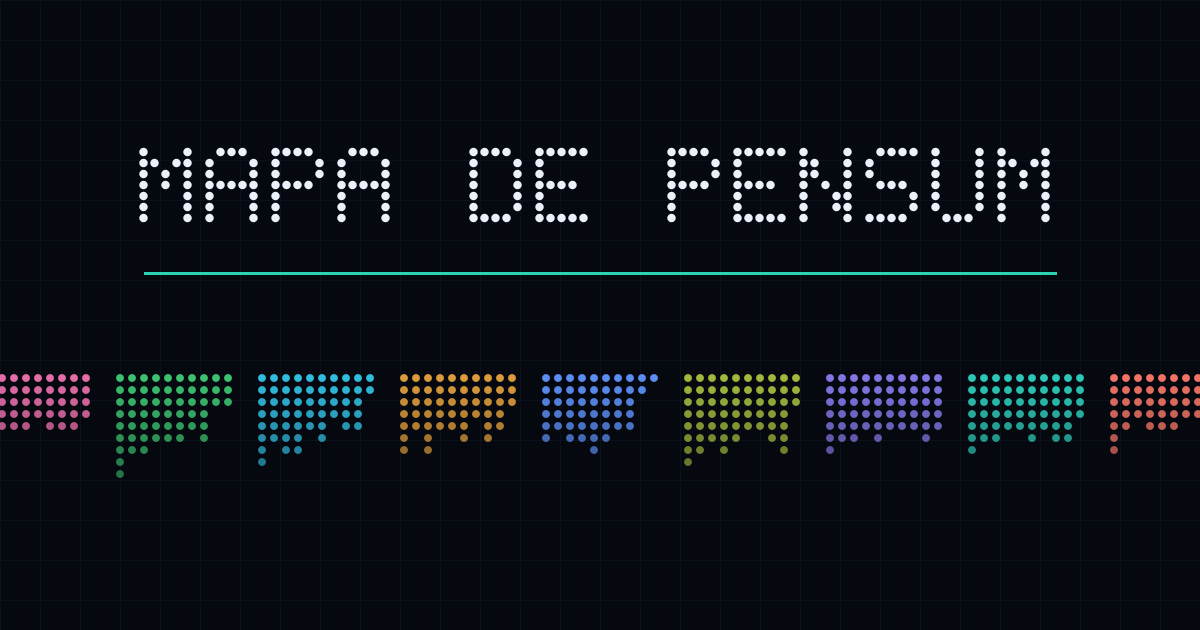
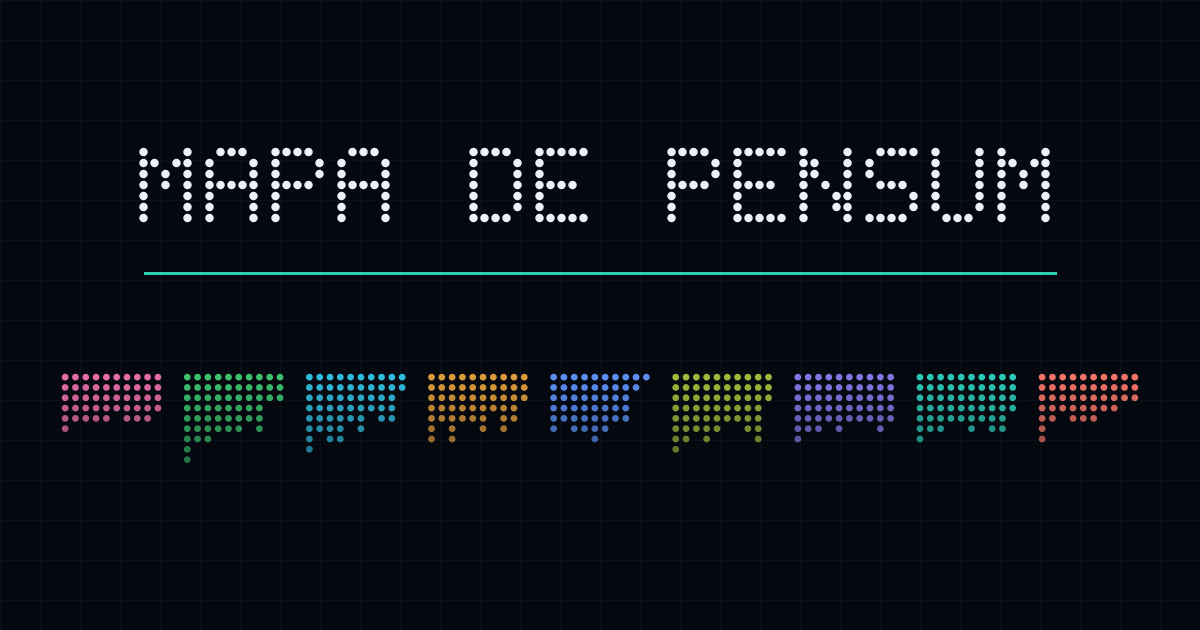
Quitar de la vista el parrafo introductorio del inicio
Ocupaba una banda entera que las tarjetas aprovechan mejor y no explicaba
lo suficiente para justificarla.

Antes de borrarlo se comprobo que trabajo de SEO hacia. El body del HTML
raiz esta VACIO -45 bytes- porque el prerenderizado escribe contenido para
las paginas de carrera, no para la portada: ese parrafo solo lo veian los
rastreadores que ejecutan JavaScript. La meta description dice lo mismo y
no depende de el.

Asi que no se borra, se esconde con sr-only: sigue siendo la primera
orientacion que oye quien entra con lector de pantalla, y quien ejecuta JS
lo sigue leyendo. Se gana el espacio sin perder nada.

De paso, un dato que la novena carrera dejo obsoleto: 'Ocho carreras'
seguia en la meta description, en el og:description, en el texto
alternativo de la miniatura y en App.jsx.

Y la miniatura de compartir se salia del lienzo con nueve siluetas: se
cortaban la primera y la ultima. El paso entre puntos ya no es fijo, se
calcula del numero de columnas, asi que seguira cuadrando cuando entre la
decima.

Changed region(s): [[0.0, 0.573, 1.0, 0.754]]

diff --git a/index.html b/index.html
@@ -11,7 +11,7 @@
     <title>Mapa de Pensum — UDO Núcleo de Monagas</title>
     <meta
       name="description"
-      content="Mapa interactivo de los pensums de la Universidad de Oriente, Núcleo de Monagas. Ocho carreras con sus materias, prelaciones y avance."
+      content="Mapa interactivo de los pensums de la Universidad de Oriente, Núcleo de Monagas. Nueve carreras con sus materias, prelaciones y avance."
     />
     <link rel="canonical" href="https://mapa-pensum.vercel.app/" />
     <!-- Vista previa al pegar el enlace en WhatsApp, Telegram, Discord o X.
@@ -24,7 +24,7 @@
     <meta property="og:title" content="Mapa de Pensum — UDO Núcleo de Monagas" />
     <meta
       property="og:description"
-      content="Tu carrera como un mapa: qué materia desbloquea cuál y cuánto te falta. Ocho carreras del Núcleo de Monagas."
+      content="Tu carrera como un mapa: qué materia desbloquea cuál y cuánto te falta. Nueve carreras del Núcleo de Monagas."
     />
     <meta property="og:image" content="https://mapa-pensum.vercel.app/og.png" />
     <meta property="og:image:type" content="image/png" />
@@ -32,7 +32,7 @@
     <meta property="og:image:height" content="630" />
     <meta
       property="og:image:alt"
-      content="Mapa de Pensum: las ocho carreras del Núcleo de Monagas, cada una con la silueta de su plan de estudios."
+      content="Mapa de Pensum: las nueve carreras del Núcleo de Monagas, cada una con la silueta de su plan de estudios."
     />
     <meta property="og:locale" content="es_VE" />
     <meta name="twitter:card" content="summary_large_image" />

diff --git a/scripts/og.js b/scripts/og.js
@@ -80,10 +80,21 @@ for (let x = (ANCHO - anchoTexto) / 2; x < (ANCHO + anchoTexto) / 2; x++) {
   for (let y = 272; y < 275; y++) punto(Math.round(x), y, ACENTO, 0.9)
 }
 
-// Siluetas reales de las ocho carreras
+// Siluetas reales de todas las carreras del indice
 const indice = JSON.parse(readFileSync('src/data/carreras/indice.json', 'utf8'))
-const PASO_PUNTO = 12
-const SEPARACION = 22
+
+// El paso se calcula, no se fija. Con ocho carreras cabian doce pixeles por
+// columna; al entrar la novena la fila se salio del lienzo y se cortaron la
+// primera y la ultima. Ahora se busca el paso mas grande que quepa, asi que
+// la imagen sigue saliendo bien cuando entre la decima.
+const MARGEN_LADO = 60
+const SEPARACION_RELATIVA = 1.85 // el hueco entre carreras, en pasos
+const columnasTotales = indice.reduce((s, c) => s + c.silueta.length, 0)
+const huecos = (indice.length - 1) * SEPARACION_RELATIVA
+const PASO_PUNTO = Math.min(12, (ANCHO - MARGEN_LADO * 2) / (columnasTotales + huecos))
+const SEPARACION = PASO_PUNTO * SEPARACION_RELATIVA
+const RADIO_PUNTO = PASO_PUNTO * 0.325
+
 const anchoCarrera = (c) => c.silueta.length * PASO_PUNTO
 const anchoTotal =
   indice.reduce((s, c) => s + anchoCarrera(c), 0) + (indice.length - 1) * SEPARACION
@@ -98,7 +109,7 @@ for (const carrera of indice) {
       circulo(
         x + columna * PASO_PUNTO + PASO_PUNTO / 2,
         yBase + fila * PASO_PUNTO + PASO_PUNTO / 2,
-        3.9,
+        RADIO_PUNTO,
         color,
         // Las de abajo se apagan: da profundidad y deja leer la columna
         0.95 - (fila / 9) * 0.45,

diff --git a/src/components/SelectorCarrera.jsx b/src/components/SelectorCarrera.jsx
@@ -7,7 +7,7 @@ import PieSelector from './PieSelector'
 import TarjetaCarrera from './TarjetaCarrera'
 
 /**
- * Portada y selector. Es la primera impresion del proyecto, asi que las ocho
+ * Portada y selector. Es la primera impresion del proyecto, asi que las nueve
  * carreras se ven a la vez sin scroll en escritorio.
  *
  * La carrera vista por ultima vez se marca con "Continuar" en vez de saltar
@@ -57,7 +57,13 @@ function SelectorCarrera({ alElegir }) {
           </button>
         </header>
 
-        <p className="mt-6 max-w-xl text-[13px] leading-relaxed text-tinta-suave sm:mt-8 xl:max-w-2xl xl:text-[15px]">
+        {/* Esta frase estaba a la vista y ocupaba una banda entera que las
+            tarjetas aprovechan mejor. No se borra, se esconde: sigue siendo
+            la primera orientacion que oye quien entra con lector de pantalla,
+            y la siguen leyendo los rastreadores que ejecutan JavaScript. Lo
+            que ven los que no lo ejecutan es la meta description, que dice lo
+            mismo y no depende de esto. */}
+        <p className="sr-only">
           Tu carrera como un mapa: qué materia desbloquea cuál, qué puedes inscribir ahora y
           cuánto te falta. Elige la tuya.
         </p>

diff --git a/src/App.jsx b/src/App.jsx
@@ -16,7 +16,7 @@ function ponerMeta(carrera) {
     ? `Mapa interactivo del pensum de ${carrera.nombre} en la UDO Núcleo de Monagas: ` +
       `${carrera.asignaturas} materias en ${carrera.semestres} semestres, con sus prelaciones.`
     : 'Mapa interactivo de los pensums de la Universidad de Oriente, Núcleo de Monagas. ' +
-      'Ocho carreras con sus materias, prelaciones y avance.'
+      'Nueve carreras con sus materias, prelaciones y avance.'
 
   document.querySelector('meta[name="description"]')?.setAttribute('content', descripcion)
   document

diff --git a/src/components/VistaCarrera.jsx b/src/components/VistaCarrera.jsx
@@ -17,7 +17,7 @@ const CLAVE_VISTA = 'mapa-pensum:vista'
 
 /**
  * El mapa de una carrera. Recibe el pensum ya normalizado y no sabe de donde
- * salio: es lo que permite que la misma vista sirva para las ocho.
+ * salio: es lo que permite que la misma vista sirva para las nueve.
  *
  * La clave de React debe ser el slug. Al cambiar de carrera se remonta entero
  * y el estado de vista (zoom, seleccion, paneles abiertos) arranca limpio, que

diff --git a/src/components/TarjetaCarrera.jsx b/src/components/TarjetaCarrera.jsx
@@ -18,7 +18,7 @@ const GIRO = 7
  * por dos palabras no se justificaba.
  *
  * tabular-nums mantiene las cifras en columna: sin eso, 49 y 10 ocupan anchos
- * distintos y las ocho tarjetas quedan desalineadas entre si.
+ * distintos y las tarjetas quedan desalineadas entre si.
  */
 function Cifra({ valor, etiqueta }) {
   return (

diff --git a/README.md b/README.md
@@ -1,12 +1,12 @@
 <div align="center">
 
-<img src="public/og.png" alt="Mapa de Pensum — las ocho carreras del Núcleo de Monagas" width="820">
+<img src="public/og.png" alt="Mapa de Pensum — las nueve carreras del Núcleo de Monagas" width="820">
 
 # Mapa de Pensum
 
 **Tu carrera como un mapa: qué materia desbloquea cuál, qué puedes inscribir ahora y cuánto te falta.**
 
-Las ocho carreras de la Universidad de Oriente, Núcleo de Monagas, dibujadas como el grafo de prelaciones que en realidad son.
+Las nueve carreras de la Universidad de Oriente, Núcleo de Monagas, dibujadas como el grafo de prelaciones que en realidad son.
 
 [**Abrir la aplicación →**](https://mapa-pensum.vercel.app)
 
@@ -32,14 +32,15 @@ Un pensum **no es una lista: es un grafo dirigido**. Esta herramienta lo dibuja 
 | **Cadena al señalar** | Pasa el cursor sobre una materia y se ilumina todo lo que necesita y todo lo que habilita |
 | **Planificador** | Dice en cuántos semestres terminas según la carga que puedas llevar, y lo exporta a PDF o Markdown |
 | **Vista de lista** | En el teléfono el mapa completo se vería a escala 0,10. La lista es la vista principal en móvil |
-| **Ocho carreras** | Cada una con su color, su ruta y su propia vista previa al compartir |
+| **Nueve carreras** | Cada una con su color, su ruta y su propia vista previa al compartir |
 
-## Las ocho carreras
+## Las nueve carreras
 
 | Carrera | Obligatorias | Electivas | UC oblig. | Cadena más larga | Créditos del título |
 |---|---:|---:|---:|---:|---:|
 | [Gerencia de Recursos Humanos](https://mapa-pensum.vercel.app/gerencia-de-recursos-humanos) | 49 | 16 | 149 | 6 | — |
 | [Ingeniería Agronómica](https://mapa-pensum.vercel.app/ingenieria-agronomica) | 58 | 49 | 150 | 6 | — |
+| [Ingeniería Ambiental](https://mapa-pensum.vercel.app/ingenieria-ambiental) | 55 | 22 | 153 | 5 | — |
 | [Ingeniería de Petróleo](https://mapa-pensum.vercel.app/ingenieria-de-petroleo) | 53 | 25 | 150 | **9** | — |
 | [Ingeniería de Sistemas](https://mapa-pensum.vercel.app/ingenieria-de-sistemas) | 49 | 39 | 132 | **9** | **153** |
 | [Ingeniería en Producción Animal](https://mapa-pensum.vercel.app/ingenieria-en-produccion-animal) | 60 | 25 | 160 | 6 | — |
@@ -47,7 +48,7 @@ Un pensum **no es una lista: es un grafo dirigido**. Esta herramienta lo dibuja 
 | [Licenciatura en Contaduría Pública](https://mapa-pensum.vercel.app/licenciatura-en-contaduria-publica) | 56 | 23 | 155 | 8 | — |
 | [Licenciatura en Tecnología de los Alimentos](https://mapa-pensum.vercel.app/licenciatura-en-tecnologia-de-los-alimentos) | 45 | 36 | 140 | 4 | — |
 
-**659 materias** en total. La *cadena más larga* es el número mínimo de semestres que impone la estructura de prelaciones: en Petróleo hay nueve materias encadenadas una detrás de otra, así que **no hay carga académica que permita terminar en menos de nueve semestres**. Es el tipo de cosa que la tabla original no te dice.
+**736 materias** en total. La *cadena más larga* es el número mínimo de semestres que impone la estructura de prelaciones: en Petróleo hay nueve materias encadenadas una detrás de otra, así que **no hay carga académica que permita terminar en menos de nueve semestres**. Es el tipo de cosa que la tabla original no te dice.
 
 Solo Sistemas tiene los créditos del título confirmados. Ver [Honestidad con los datos](#honestidad-con-los-datos).
 
@@ -272,7 +273,7 @@ node scripts/validar-pensum.js ruta/a/otra/carpeta
 ## Rutas y SEO
 
 ```
-/           Selector: las ocho carreras
+/           Selector: las nueve carreras
 /<slug>     Mapa de una carrera
 ```
 
@@ -280,7 +281,7 @@ Cada carrera es un chunk aparte (~2,5 kB comprimidos) que se baja al entrar, y q
 
 ## Se guarda en el teléfono y abre sin internet
 
-La aplicación se puede instalar. Una vez instalada **abre sin conexión y no vuelve a gastar datos** para consultar el pensum: el service worker guarda las ocho carreras completas, la tipografía y los iconos, unos 780 kB una sola vez.
+La aplicación se puede instalar. Una vez instalada **abre sin conexión y no vuelve a gastar datos** para consultar el pensum: el service worker guarda las nueve carreras completas, la tipografía y los iconos, unos 780 kB una sola vez.
 
 Eso importa aquí más que en otros sitios. El público objetivo mira su pensum muchas veces, desde teléfonos modestos y con datos que paga por megabyte.
 
